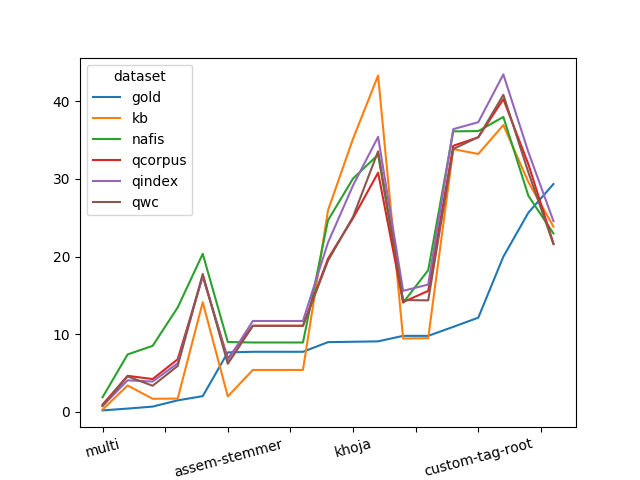
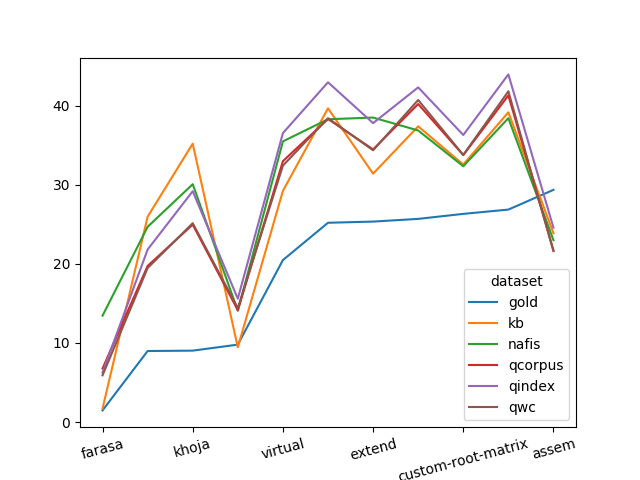
Add separated algorithms stemmer to test performance for each one

diff --git a/rooter/abstractstemmer.py b/rooter/abstractstemmer.py
@@ -294,8 +294,6 @@ class customStemmer_roots(abstractStemmer):
         infixes_letters_custom = u"توطيدا"
         self.set_infix_letters(infixes_letters_custom)
         self.config["root_dict"] = "yes"
-        #~ rootslib.create_stamped_roots()
-        #~ rootslib.create_virtual_roots()
         self.rootdict = rootslibclass.rootDict()
     
     def getstem(self,word):
@@ -339,7 +337,30 @@ class customStemmer_roots(abstractStemmer):
             ):
                 return False
         return True
+
+class customStemmer_roots_stamp(customStemmer_roots):
+    """ I will make more options for stemmer """
+    def __init__(self,):
+        customStemmer_roots.__init__(self)
+        self.rootdict.algos = ['stamp']
+class customStemmer_roots_extend(customStemmer_roots):
+    """ I will make more options for stemmer """
+    def __init__(self,):
+        customStemmer_roots.__init__(self)
+        self.rootdict.algos = ['extend']
         
+class customStemmer_roots_rhyzome(customStemmer_roots):
+    """ I will make more options for stemmer """
+    def __init__(self,):
+        customStemmer_roots.__init__(self)
+        self.rootdict.algos = ['rhyzome']
+
+class customStemmer_roots_virtual(customStemmer_roots):
+    """ I will make more options for stemmer """
+    def __init__(self,):
+        customStemmer_roots.__init__(self)
+        self.rootdict.algos = ['virtual']
+
 class customStemmer_roots_matrix(abstractStemmer):
     """ I will make more options for stemmer """
     def __init__(self,):
@@ -759,6 +780,10 @@ class factory_stemmer(object):
         "rooter-only",
         "multi",
         "lemmatizer",
+        "stamp",
+        "rhyzome",
+        "extend",
+        "virtual",
         ]
         return namelist
     @staticmethod
@@ -795,6 +820,14 @@ class factory_stemmer(object):
             asl = customStemmer_affix_stp()
         elif name == "custom-root":
             asl = customStemmer_roots()
+        elif name == "stamp":
+            asl = customStemmer_roots_stamp()
+        elif name == "extend":
+            asl = customStemmer_roots_extend()
+        elif name == "rhyzome":
+            asl = customStemmer_roots_rhyzome()
+        elif name == "virtual":
+            asl = customStemmer_roots_virtual()
         elif name == "custom-root-matrix":
             asl = customStemmer_roots_matrix()
         elif name == "custom-tag-root":
